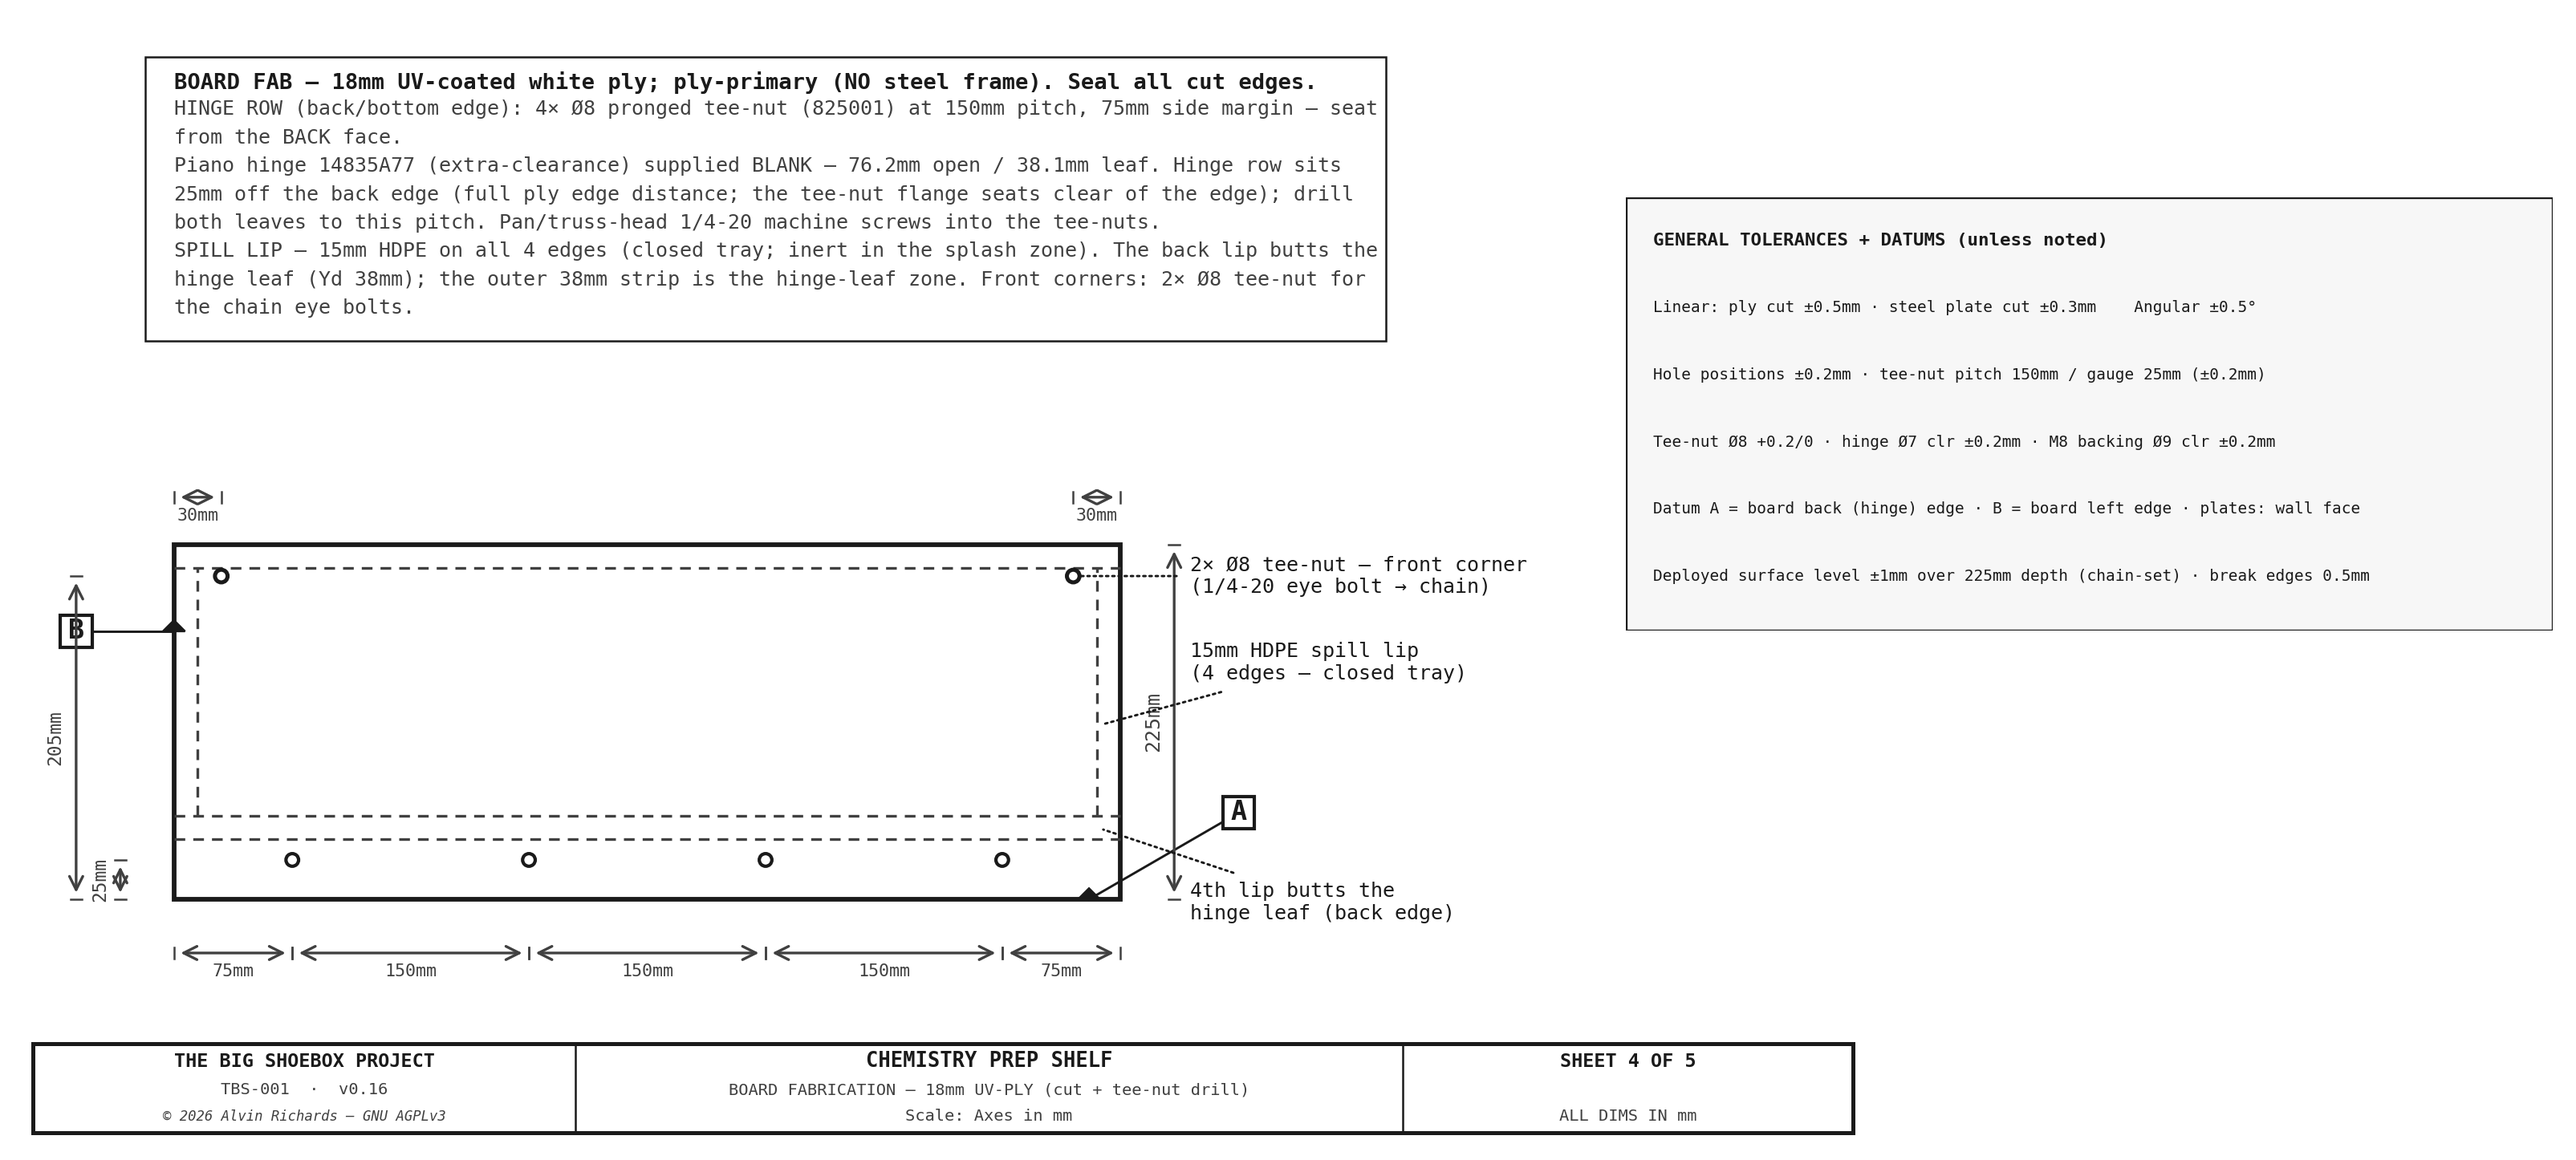
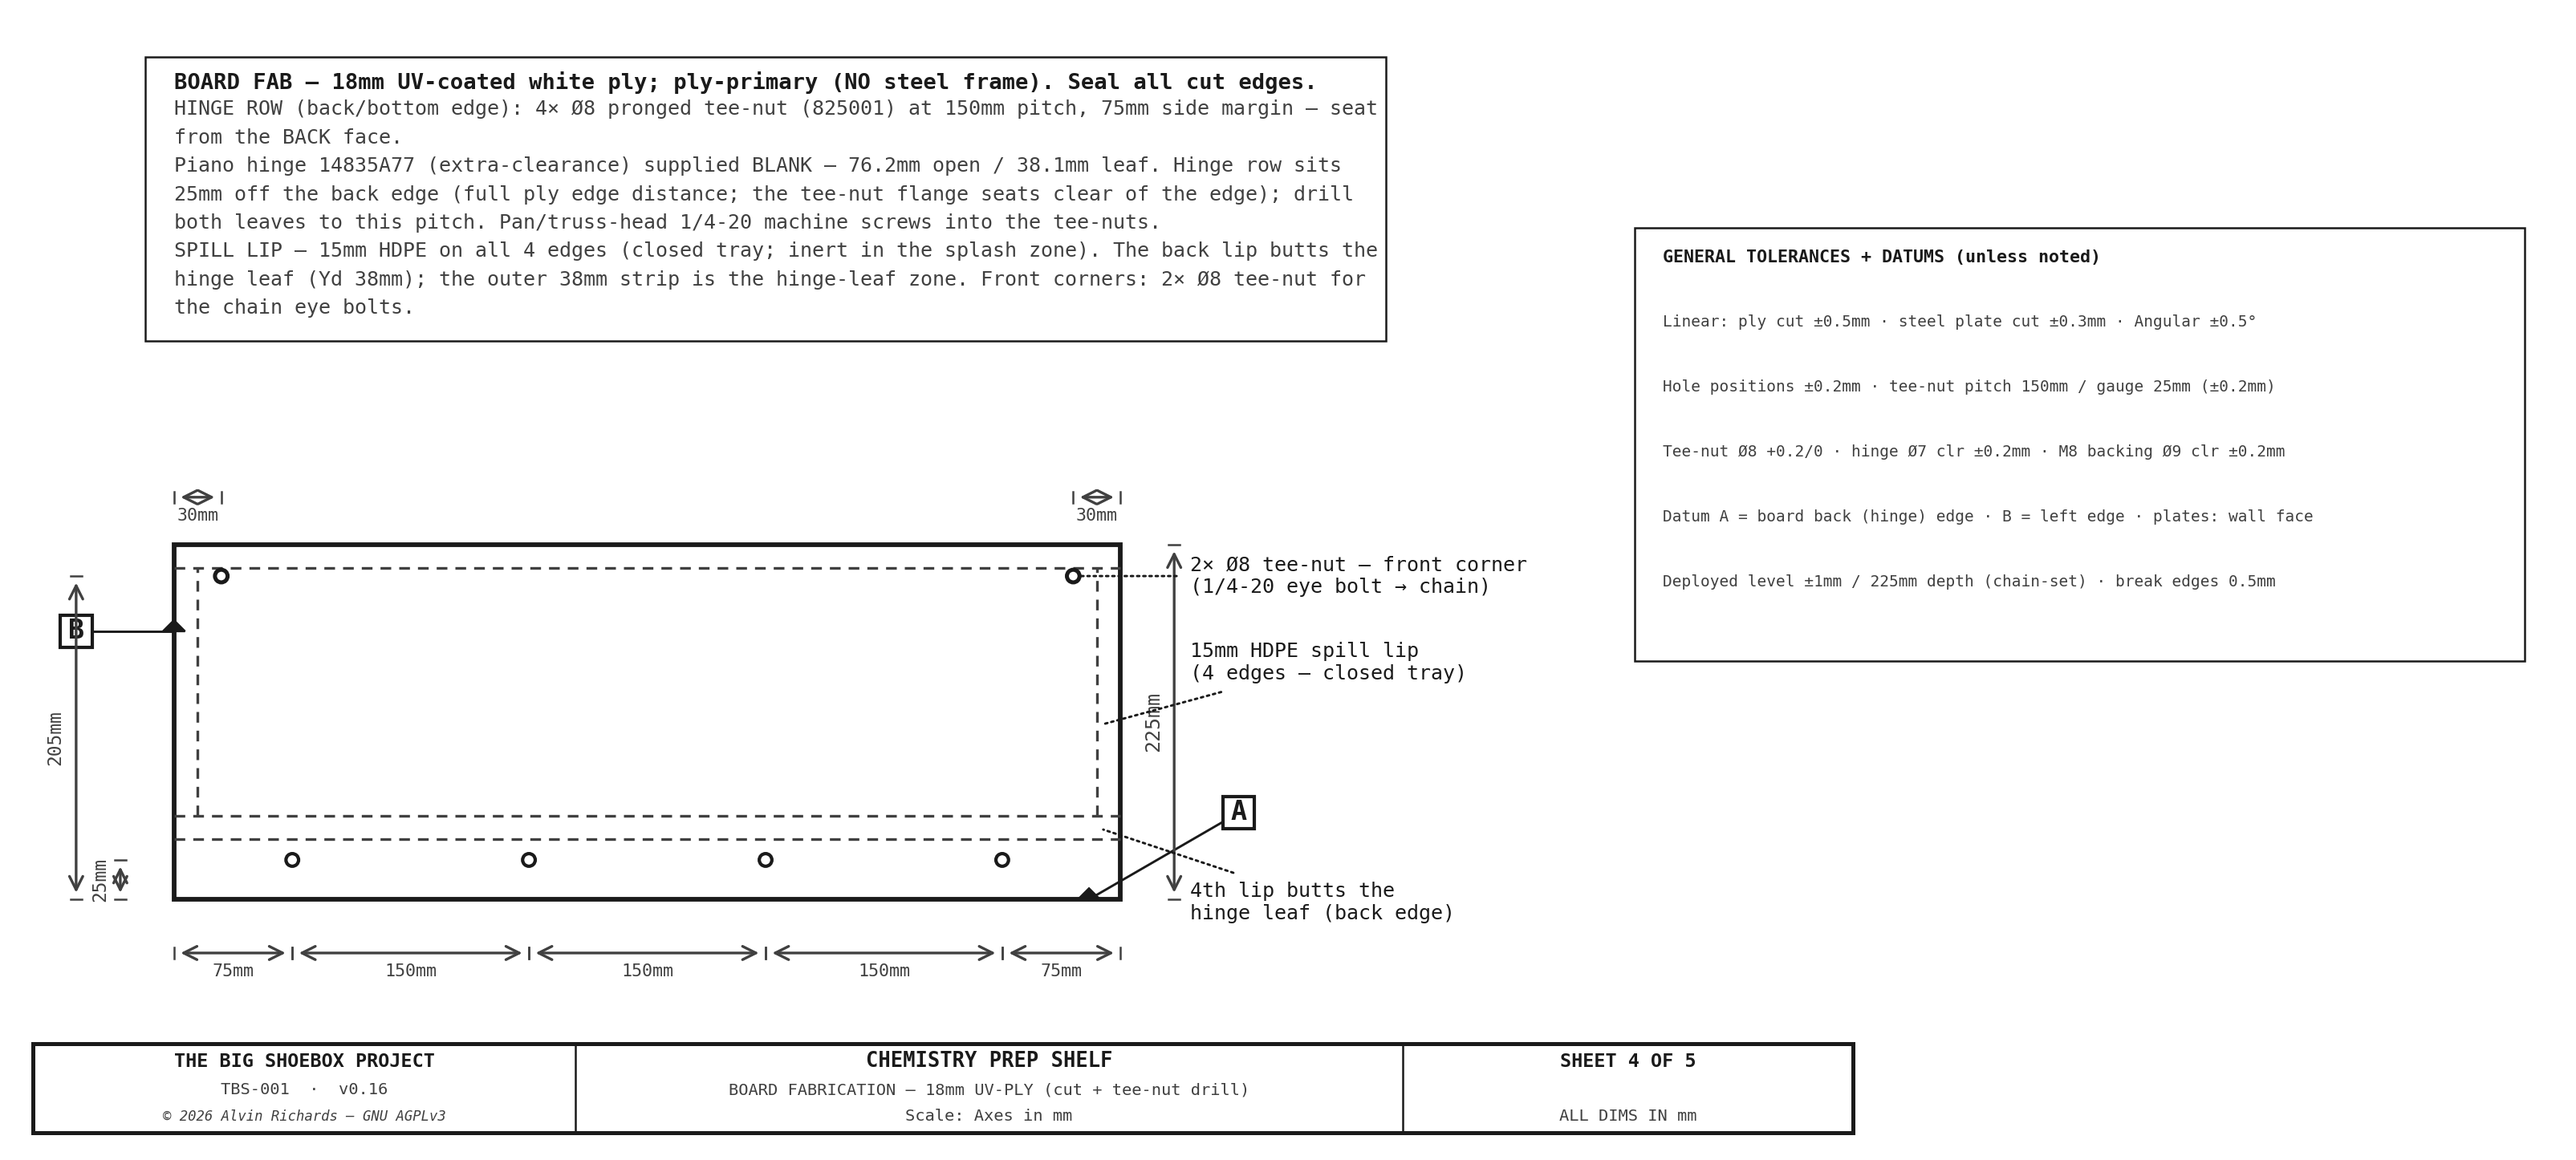
shelf _tol_block: render via the house draw_notes helper; TODO to sweep the others
- Replace the hand-rolled fig.add_axes + Rectangle + text-loop in the shelf
  _tol_block with a draw_notes call (bold first-line title + bordered box,
  white fill) — now consistent with the sheet's other note blocks. Rows pulled
  to a _TOL_ROWS constant. Constrained pad_x/pad_y so the border stays in its
  rect (draw_notes pads = spacing by default, which bled over the callouts).
- TODO: the same hand-rolled pattern remains in the PDH, IBC-frame, and
  electrical generators — sweep them onto draw_notes too.

diff --git a/src/generators/generate_shelf_diagram.py b/src/generators/generate_shelf_diagram.py
@@ -276,23 +276,22 @@ def _datum(ax, x, y, letter, dx, dy):
             fontweight="bold", color=C_OUT, zorder=11, **FONT)
 
 
+_TOL_ROWS = [
+    "GENERAL TOLERANCES + DATUMS (unless noted)",
+    "Linear: ply cut ±0.5mm · steel plate cut ±0.3mm · Angular ±0.5°",
+    "Hole positions ±0.2mm · tee-nut pitch 150mm / gauge 25mm (±0.2mm)",
+    "Tee-nut Ø8 +0.2/0 · hinge Ø7 clr ±0.2mm · M8 backing Ø9 clr ±0.2mm",
+    "Datum A = board back (hinge) edge · B = left edge · plates: wall face",
+    "Deployed level ±1mm / 225mm depth (chain-set) · break edges 0.5mm",
+]
+
+
 def _tol_block(fig, rect):
-    """Shop tolerance + datum block at `rect` [l,b,w,h] in figure coords (house style — cf. PDH)."""
+    """Tolerance + datum block via the house draw_notes helper (bold first line = title),
+    placed at `rect` [l,b,w,h] in figure coords so it sits in the sheet's side whitespace."""
     axb = fig.add_axes(rect); axb.axis("off"); axb.set_xlim(0, 1); axb.set_ylim(0, 1)
-    axb.add_patch(Rectangle((0, 0), 1, 1, fc="#F7F7F7", ec=C_OUT, lw=0.8))
-    rows = [
-        "GENERAL TOLERANCES + DATUMS (unless noted)",
-        "Linear: ply cut ±0.5mm · steel plate cut ±0.3mm    Angular ±0.5°",
-        "Hole positions ±0.2mm · tee-nut pitch 150mm / gauge 25mm (±0.2mm)",
-        "Tee-nut Ø8 +0.2/0 · hinge Ø7 clr ±0.2mm · M8 backing Ø9 clr ±0.2mm",
-        "Datum A = board back (hinge) edge · B = board left edge · plates: wall face",
-        "Deployed surface level ±1mm over 225mm depth (chain-set) · break edges 0.5mm",
-    ]
-    y = 0.90
-    for i, t in enumerate(rows):
-        axb.text(0.03, y, t, fontsize=4.7 if i else 5.4, fontweight="bold" if i == 0 else "normal",
-                 va="center", ha="left", color=C_OUT, **FONT)
-        y -= 0.155
+    draw_notes(axb, _TOL_ROWS, 0.04, 0.88, 0.15, fs=4.7, width=0.90,
+               pad_x=0.03, pad_y=0.05, font=FONT)
 
 # ── Piano hinge 14835A77 extra-clearance (blank) geometry — from the McMaster 14835A33 datasheet ──
 HINGE_OPEN    = 76.2     # open width (3in) — both leaves flat

diff --git a/TODO.md b/TODO.md
@@ -31,6 +31,13 @@ outstanding work, not a history log). Detailed sub-trackers are linked where the
     the constant, only the component NAME text lags). Flip the 5 `M5`→`M6` label/comment strings on the next
     `pinhole-disc-holder` re-send (the name change touches the `.rb` → needs a re-send + push). Size is already
     reconciled to M6 everywhere else (constants, parts, report, all 2D sheets, fastener-standardization.md).
+- [ ] **Tolerance/datum blocks — sweep the hand-rolled `_tol_block`s onto the shared `draw_notes` helper (2026-10-14).**
+  `generate_shelf_diagram.py`'s `_tol_block` was refactored to render via `tbs_drawing.draw_notes` (bold first-line
+  title + bordered box) instead of a hand-rolled `fig.add_axes` + `Rectangle` + text-loop. The **same hand-rolled
+  pattern still lives in `generate_pinhole_disc_holder.py` (`_tol_block`), `generate_ibc_frame_drawing.py`, and
+  `generate_electrical_diagram.py`** — sweep each to `draw_notes` so every tolerance/note block is one code path.
+  Output-equivalent, low-risk. Gotcha: `draw_notes` `pad_x`/`pad_y` default to `spacing`, which bleeds the border
+  left of its placement rect — pass small explicit pads when the block sits in a fig-coord rect (see the shelf fix).
 - [~] **Model-aggregation — Phases 0–3 DONE** (overview is now a thin aggregator; full history in [`model-aggregation-plan.md`](model-aggregation-plan.md)). Phase 3 (2026-10-10) added the `lint.py` ratchet gate `gate_overview_aggregation` locking overview to its sanctioned builder set, so it can never silently re-grow an owned builder and drift from its sub-model. **Remaining (optional polish, not blocking):** the two orphans `shelf` + `light_seal` are allowlisted as accepted (no sub-model home) — if a `context`/furniture owner is created, move them there and drop the allowlist entries (the ratchet flags the stale entries to keep the move honest).
 - [x] **Label-overflow sweep — RESOLVED 2026-10-10.** The old `--overflow` measured each label vs its
   **axes data-box**, which over-reported badly: ~136 flags, but with `bbox_inches="tight"` (the house convention
